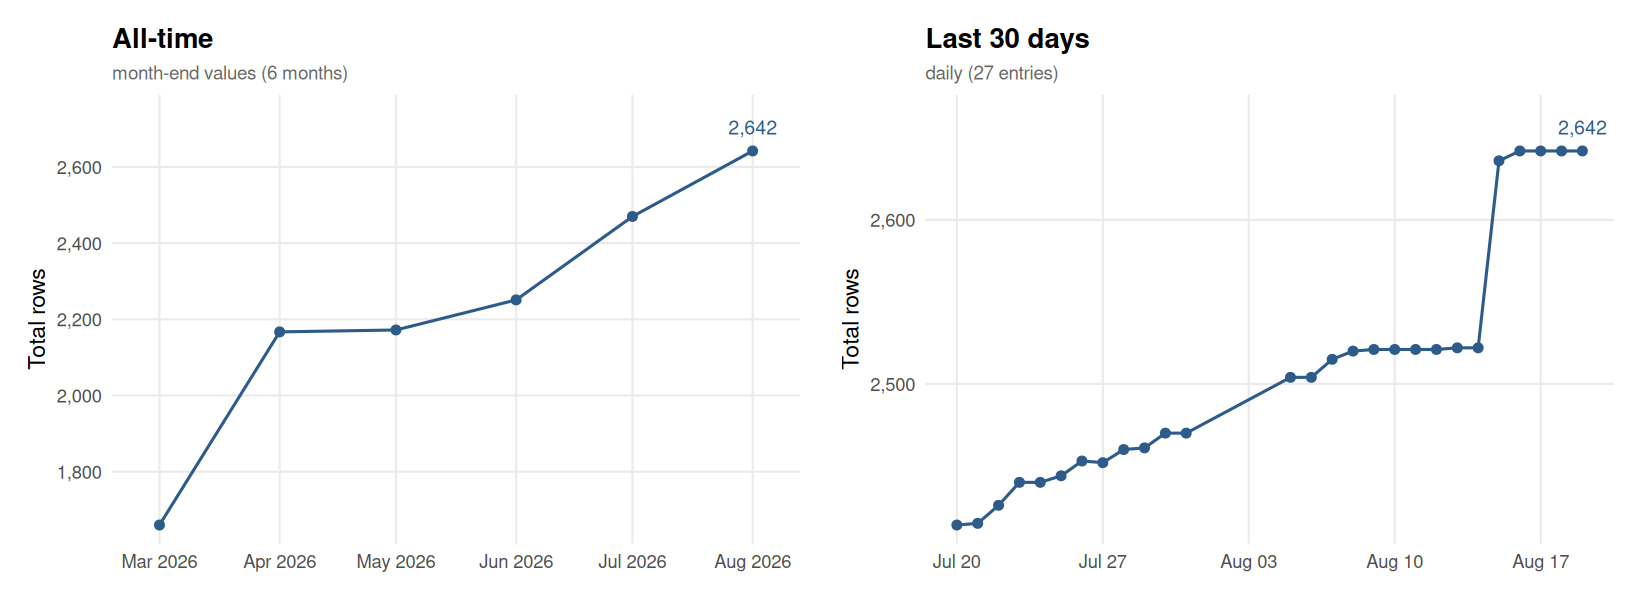
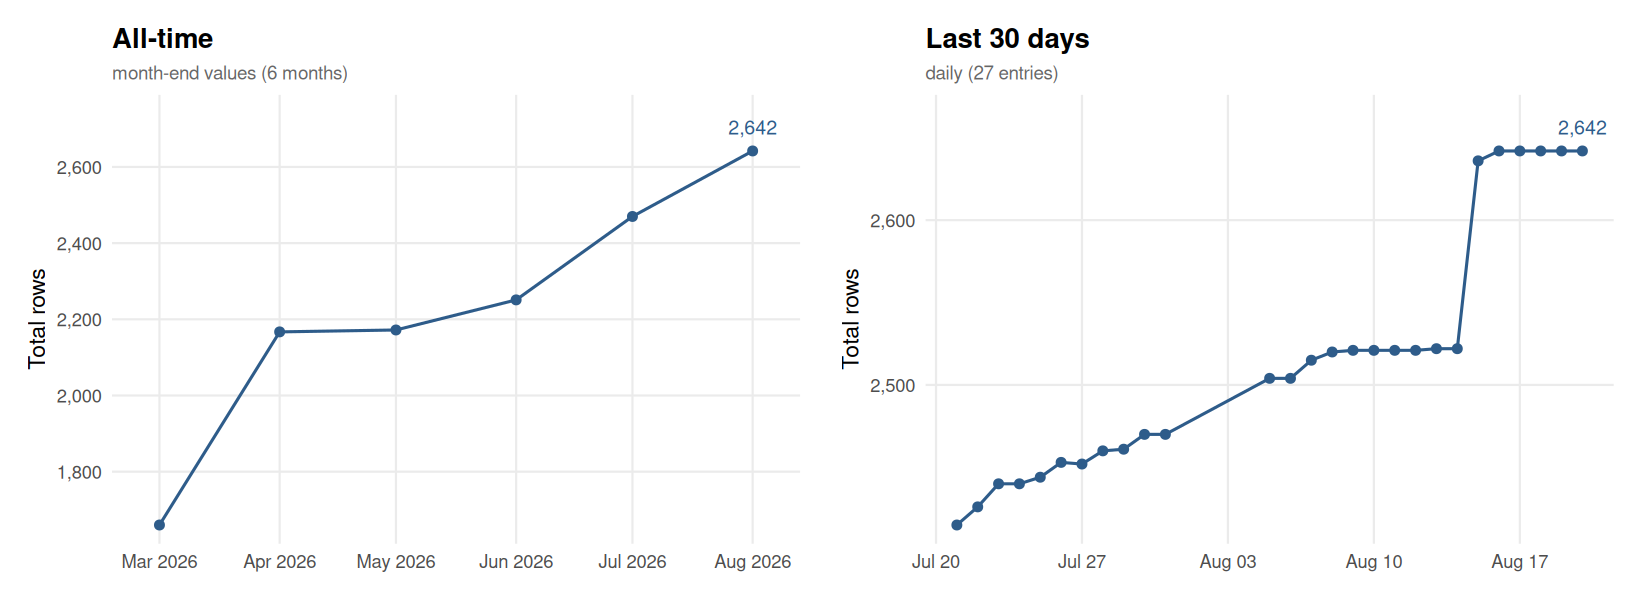
Update flora.csv [automated]

diff --git a/README.md b/README.md
@@ -438,14 +438,15 @@ For API issues:
 This chart is automatically updated after each pipeline run, showing the size of `output/flora.csv` over time.
 
 <!-- FLORA_UPDATE_LOG_START -->
-> **Latest (2026-08-19):** Total = 2,642 | Replications = 2,512 | Reproductions = 130
+> **Latest (2026-08-20):** Total = 2,642 | Replications = 2,512 | Reproductions = 130
 
 ![FLoRA dataset size over time](output/flora_history.png)
 
-<details><summary>Full history (149 entries)</summary>
+<details><summary>Full history (150 entries)</summary>
 
 | Date | Total | Replications | Reproductions |
 |------|------:|-------------:|--------------:|
+| 2026-08-20 | 2642 | 2512 | 130 |
 | 2026-08-19 | 2642 | 2512 | 130 |
 | 2026-08-18 | 2642 | 2512 | 130 |
 | 2026-08-17 | 2642 | 2512 | 130 |
